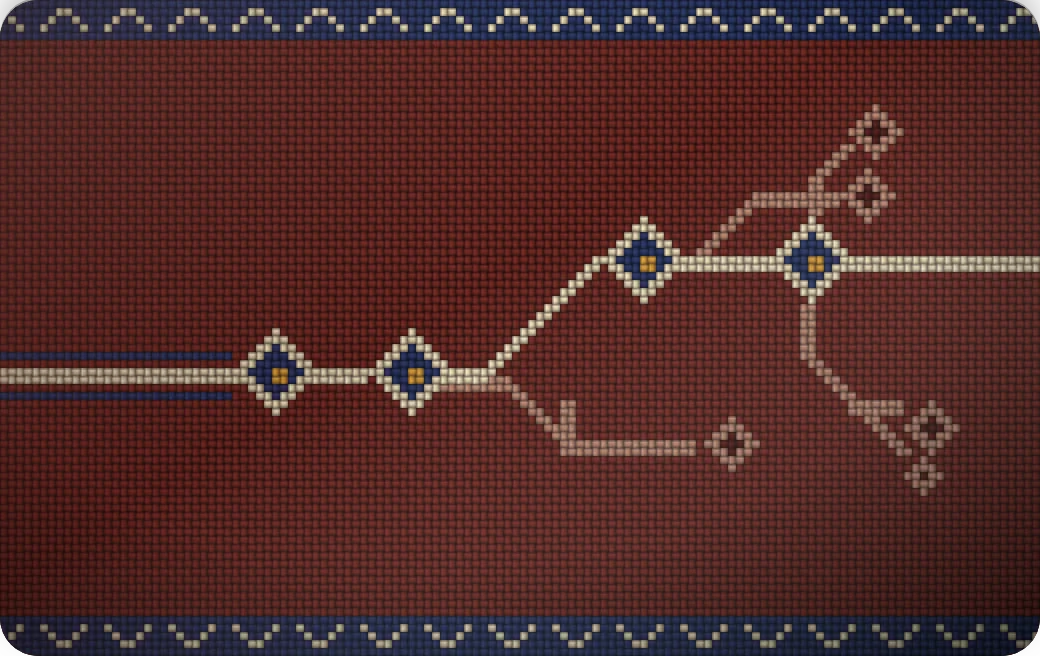
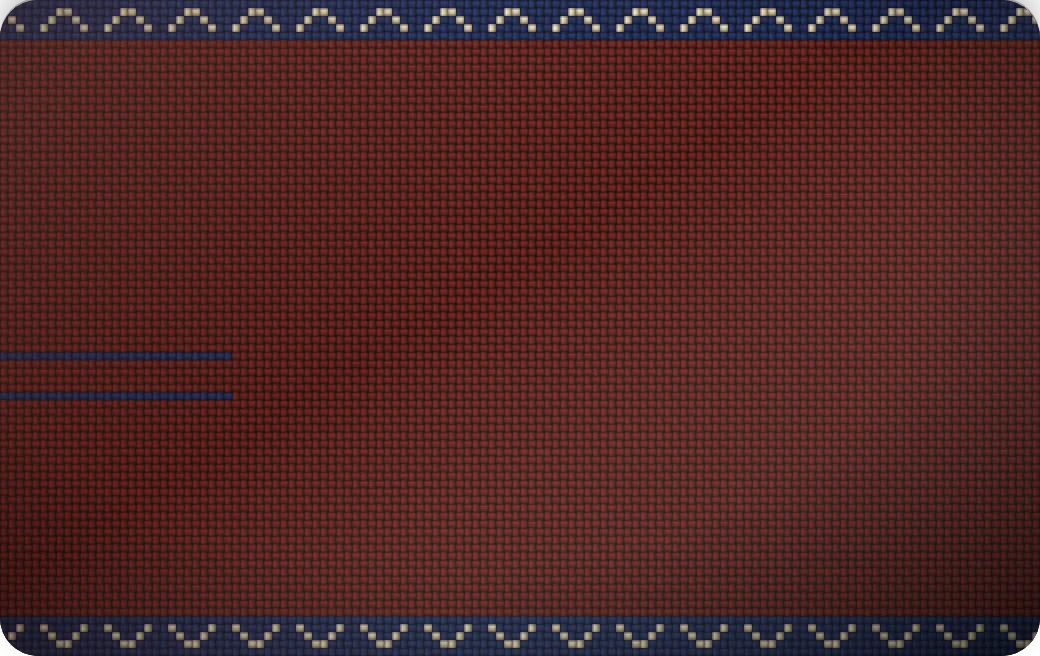
feat(home): Telar teje su hilo puntada a puntada al abrir la tarjeta (NOE-558)

diff --git a/src/home/sections/card-motion/telar.ts b/src/home/sections/card-motion/telar.ts
@@ -1,5 +1,25 @@
-import type { CardMotion } from './index';
+// Telar: the moving parts of the card (the cross-stitch thread weaving itself from the left, and its diamonds).
+// Generated by scripts/cards/gen/telar-split.mjs from the same source as public/home/cards/telar.webp (the red cloth and blue borders).
+// At rest, this overlay on that base is the approved card. Build-up is about 1.3 s.
+import { pop, EASE, type CardMotion } from './index';
 
-// Placeholder until this card's overlay is built.
-const motion: CardMotion = { id: 'telar', svg: '', play: () => [] };
+const svg = "<defs><linearGradient id=\"tw-cream\" x1=\"0\" x2=\"1\"><stop offset=\"0\" stop-color=\"#6f6655\"/><stop offset=\".3\" stop-color=\"#ffedc5\"/><stop offset=\".62\" stop-color=\"#d9c8a7\"/><stop offset=\"1\" stop-color=\"#6a6252\"/></linearGradient><linearGradient id=\"tf-cream\" x1=\"0\" y1=\"0\" x2=\"0\" y2=\"1\"><stop offset=\"0\" stop-color=\"#736a58\"/><stop offset=\".32\" stop-color=\"#f8e4be\"/><stop offset=\".64\" stop-color=\"#d4c4a3\"/><stop offset=\"1\" stop-color=\"#6f6655\"/></linearGradient><linearGradient id=\"tw-dim\" x1=\"0\" x2=\"1\"><stop offset=\"0\" stop-color=\"#583f35\"/><stop offset=\".3\" stop-color=\"#cc927a\"/><stop offset=\".62\" stop-color=\"#ac7b67\"/><stop offset=\"1\" stop-color=\"#543c32\"/></linearGradient><linearGradient id=\"tf-dim\" x1=\"0\" y1=\"0\" x2=\"0\" y2=\"1\"><stop offset=\"0\" stop-color=\"#5c4237\"/><stop offset=\".32\" stop-color=\"#c58d76\"/><stop offset=\".64\" stop-color=\"#a97965\"/><stop offset=\"1\" stop-color=\"#583f35\"/></linearGradient><linearGradient id=\"tw-ochre\" x1=\"0\" x2=\"1\"><stop offset=\"0\" stop-color=\"#65481b\"/><stop offset=\".3\" stop-color=\"#e9a63d\"/><stop offset=\".62\" stop-color=\"#c58c34\"/><stop offset=\"1\" stop-color=\"#604519\"/></linearGradient><linearGradient id=\"tf-ochre\" x1=\"0\" y1=\"0\" x2=\"0\" y2=\"1\"><stop offset=\"0\" stop-color=\"#694a1c\"/><stop offset=\".32\" stop-color=\"#e1a03b\"/><stop offset=\".64\" stop-color=\"#c18933\"/><stop offset=\"1\" stop-color=\"#65481b\"/></linearGradient><linearGradient id=\"tw-deep\" x1=\"0\" x2=\"1\"><stop offset=\"0\" stop-color=\"#250d0c\"/><stop offset=\".3\" stop-color=\"#561e1b\"/><stop offset=\".62\" stop-color=\"#491917\"/><stop offset=\"1\" stop-color=\"#240c0b\"/></linearGradient><linearGradient id=\"tf-deep\" x1=\"0\" y1=\"0\" x2=\"0\" y2=\"1\"><stop offset=\"0\" stop-color=\"#260e0c\"/><stop offset=\".32\" stop-color=\"#531d1a\"/><stop offset=\".64\" stop-color=\"#471916\"/><stop offset=\"1\" stop-color=\"#250d0c\"/></linearGradient><linearGradient id=\"tw-indigo\" x1=\"0\" x2=\"1\"><stop offset=\"0\" stop-color=\"#13192f\"/><stop offset=\".3\" stop-color=\"#2c3a6d\"/><stop offset=\".62\" stop-color=\"#25315c\"/><stop offset=\"1\" stop-color=\"#12182d\"/></linearGradient><linearGradient id=\"tf-indigo\" x1=\"0\" y1=\"0\" x2=\"0\" y2=\"1\"><stop offset=\"0\" stop-color=\"#141a31\"/><stop offset=\".32\" stop-color=\"#2b3869\"/><stop offset=\".64\" stop-color=\"#24305a\"/><stop offset=\"1\" stop-color=\"#13192f\"/></linearGradient><linearGradient id=\"tov\" x1=\"0\" y1=\"0\" x2=\"0\" y2=\"1\"><stop offset=\"0\" stop-color=\"#000\" stop-opacity=\".34\"/><stop offset=\".28\" stop-color=\"#000\" stop-opacity=\"0\"/><stop offset=\".72\" stop-color=\"#000\" stop-opacity=\"0\"/><stop offset=\"1\" stop-color=\"#000\" stop-opacity=\".34\"/></linearGradient><linearGradient id=\"toh\" x1=\"0\" y1=\"0\" x2=\"1\" y2=\"0\"><stop offset=\"0\" stop-color=\"#000\" stop-opacity=\".34\"/><stop offset=\".28\" stop-color=\"#000\" stop-opacity=\"0\"/><stop offset=\".72\" stop-color=\"#000\" stop-opacity=\"0\"/><stop offset=\"1\" stop-color=\"#000\" stop-opacity=\".34\"/></linearGradient><pattern id=\"tp-cream\" width=\"8\" height=\"8\" patternUnits=\"userSpaceOnUse\"><rect width=\"4\" height=\"4\" fill=\"url(#tw-cream)\"/><rect width=\"4\" height=\"4\" fill=\"url(#tov)\"/><rect x=\"4\" width=\"4\" height=\"4\" fill=\"url(#tf-cream)\"/><rect x=\"4\" width=\"4\" height=\"4\" fill=\"url(#toh)\"/><rect y=\"4\" width=\"4\" height=\"4\" fill=\"url(#tf-cream)\"/><rect y=\"4\" width=\"4\" height=\"4\" fill=\"url(#toh)\"/><rect x=\"4\" y=\"4\" width=\"4\" height=\"4\" fill=\"url(#tw-cream)\"/><rect x=\"4\" y=\"4\" width=\"4\" height=\"4\" fill=\"url(#tov)\"/></pattern><pattern id=\"tp-dim\" width=\"8\" height=\"8\" patternUnits=\"userSpaceOnUse\"><rect width=\"4\" height=\"4\" fill=\"url(#tw-dim)\"/><rect width=\"4\" height=\"4\" fill=\"url(#tov)\"/><rect x=\"4\" width=\"4\" height=\"4\" fill=\"url(#tf-dim)\"/><rect x=\"4\" width=\"4\" height=\"4\" fill=\"url(#toh)\"/><rect y=\"4\" width=\"4\" height=\"4\" fill=\"url(#tf-dim)\"/><rect y=\"4\" width=\"4\" height=\"4\" fill=\"url(#toh)\"/><rect x=\"4\" y=\"4\" width=\"4\" height=\"4\" fill=\"url(#tw-dim)\"/><rect x=\"4\" y=\"4\" width=\"4\" height=\"4\" fill=\"url(#tov)\"/></pattern><pattern id=\"tp-ochre\" width=\"8\" height=\"8\" patternUnits=\"userSpaceOnUse\"><rect width=\"4\" height=\"4\" fill=\"url(#tw-ochre)\"/><rect width=\"4\" height=\"4\" fill=\"url(#tov)\"/><rect x=\"4\" width=\"4\" height=\"4\" fill=\"url(#tf-ochre)\"/><rect x=\"4\" width=\"4\" height=\"4\" fill=\"url(#toh)\"/><rect y=\"4\" width=\"4\" height=\"4\" fill=\"url(#tf-ochre)\"/><rect y=\"4\" width=\"4\" height=\"4\" fill=\"url(#toh)\"/><rect x=\"4\" y=\"4\" width=\"4\" height=\"4\" fill=\"url(#tw-ochre)\"/><rect x=\"4\" y=\"4\" width=\"4\" height=\"4\" fill=\"url(#tov)\"/></pattern><pattern id=\"tp-deep\" width=\"8\" height=\"8\" patternUnits=\"userSpaceOnUse\"><rect width=\"4\" height=\"4\" fill=\"url(#tw-deep)\"/><rect width=\"4\" height=\"4\" fill=\"url(#tov)\"/><rect x=\"4\" width=\"4\" height=\"4\" fill=\"url(#tf-deep)\"/><rect x=\"4\" width=\"4\" height=\"4\" fill=\"url(#toh)\"/><rect y=\"4\" width=\"4\" height=\"4\" fill=\"url(#tf-deep)\"/><rect y=\"4\" width=\"4\" height=\"4\" fill=\"url(#toh)\"/><rect x=\"4\" y=\"4\" width=\"4\" height=\"4\" fill=\"url(#tw-deep)\"/><rect x=\"4\" y=\"4\" width=\"4\" height=\"4\" fill=\"url(#tov)\"/></pattern><pattern id=\"tp-indigo\" width=\"8\" height=\"8\" patternUnits=\"userSpaceOnUse\"><rect width=\"4\" height=\"4\" fill=\"url(#tw-indigo)\"/><rect width=\"4\" height=\"4\" fill=\"url(#tov)\"/><rect x=\"4\" width=\"4\" height=\"4\" fill=\"url(#tf-indigo)\"/><rect x=\"4\" width=\"4\" height=\"4\" fill=\"url(#toh)\"/><rect y=\"4\" width=\"4\" height=\"4\" fill=\"url(#tf-indigo)\"/><rect y=\"4\" width=\"4\" height=\"4\" fill=\"url(#toh)\"/><rect x=\"4\" y=\"4\" width=\"4\" height=\"4\" fill=\"url(#tw-indigo)\"/><rect x=\"4\" y=\"4\" width=\"4\" height=\"4\" fill=\"url(#tov)\"/></pattern><linearGradient id=\"tl-calm\" gradientUnits=\"userSpaceOnUse\" gradientTransform=\"matrix(520 0 0 328 0 0)\" x1=\"0\" y1=\"0\" x2=\"1\" y2=\"0\"><stop offset=\"0\" stop-color=\"#2a0c0b\" stop-opacity=\".30\"/><stop offset=\".45\" stop-color=\"#2a0c0b\" stop-opacity=\".0\"/></linearGradient><linearGradient id=\"tl-sheen\" gradientUnits=\"userSpaceOnUse\" gradientTransform=\"matrix(520 0 0 328 0 0)\" x1=\"0\" y1=\"0\" x2=\"1\" y2=\"1\"><stop offset=\"0\" stop-color=\"#fff\" stop-opacity=\".07\"/><stop offset=\".45\" stop-color=\"#fff\" stop-opacity=\"0\"/><stop offset=\"1\" stop-color=\"#000\" stop-opacity=\".28\"/></linearGradient><radialGradient id=\"tl-vig\" gradientUnits=\"userSpaceOnUse\" gradientTransform=\"matrix(520 0 0 328 0 0)\" cx=\".42\" cy=\".4\" r=\".85\"><stop offset=\".55\" stop-color=\"#000\" stop-opacity=\"0\"/><stop offset=\"1\" stop-color=\"#000\" stop-opacity=\".42\"/></radialGradient><g id=\"tl-L\"><rect width=\"520\" height=\"328\" fill=\"url(#tl-calm)\"/><rect width=\"520\" height=\"328\" fill=\"url(#tl-sheen)\"/><rect width=\"520\" height=\"328\" fill=\"url(#tl-vig)\"/></g><path id=\"t0-0\" d=\"M0 184h16v4h-16zM0 188h16v4h-16z\"/><clipPath id=\"tc-0\"><use href=\"#t0-0\"/></clipPath><path id=\"t1-0\" d=\"M16 184h12v4h-12zM16 188h12v4h-12z\"/><clipPath id=\"tc-1\"><use href=\"#t1-0\"/></clipPath><path id=\"t2-0\" d=\"M28 184h16v4h-16zM28 188h16v4h-16z\"/><clipPath id=\"tc-2\"><use href=\"#t2-0\"/></clipPath><path id=\"t3-0\" d=\"M44 184h12v4h-12zM44 188h12v4h-12z\"/><clipPath id=\"tc-3\"><use href=\"#t3-0\"/></clipPath><path id=\"t4-0\" d=\"M56 184h16v4h-16zM56 188h16v4h-16z\"/><clipPath id=\"tc-4\"><use href=\"#t4-0\"/></clipPath><path id=\"t5-0\" d=\"M72 184h12v4h-12zM72 188h12v4h-12z\"/><clipPath id=\"tc-5\"><use href=\"#t5-0\"/></clipPath><path id=\"t6-0\" d=\"M84 184h12v4h-12zM84 188h12v4h-12z\"/><clipPath id=\"tc-6\"><use href=\"#t6-0\"/></clipPath><path id=\"t7-0\" d=\"M96 184h16v4h-16zM96 188h16v4h-16z\"/><clipPath id=\"tc-7\"><use href=\"#t7-0\"/></clipPath><path id=\"t8-0\" d=\"M112 184h4v4h-4zM112 188h4v4h-4z\"/><clipPath id=\"tc-8\"><use href=\"#t8-0\"/></clipPath><path id=\"t9-0\" d=\"M164 184h16v4h-16zM164 188h16v4h-16z\"/><clipPath id=\"tc-9\"><use href=\"#t9-0\"/></clipPath><path id=\"t10-0\" d=\"M180 184h4v4h-4zM180 188h4v4h-4z\"/><clipPath id=\"tc-10\"><use href=\"#t10-0\"/></clipPath><path id=\"t11-0\" d=\"M228 192h4v4h-4z\"/><path id=\"t11-1\" d=\"M232 184h4v4h-4zM232 188h4v4h-4z\"/><clipPath id=\"tc-11\"><use href=\"#t11-0\"/><use href=\"#t11-1\"/></clipPath><path id=\"t12-0\" d=\"M244 188h4v4h-4zM232 192h16v4h-16z\"/><path id=\"t12-1\" d=\"M244 180h4v4h-4zM236 184h12v4h-12zM236 188h8v4h-8z\"/><clipPath id=\"tc-12\"><use href=\"#t12-0\"/><use href=\"#t12-1\"/></clipPath><path id=\"t13-0\" d=\"M248 188h8v4h-8zM248 192h12v4h-12zM256 196h4v4h-4z\"/><path id=\"t13-1\" d=\"M252 172h4v4h-4zM248 176h8v4h-8zM248 180h4v4h-4z\"/><clipPath id=\"tc-13\"><use href=\"#t13-0\"/><use href=\"#t13-1\"/></clipPath><path id=\"t14-0\" d=\"M260 196h4v4h-4zM260 200h8v4h-8zM264 204h8v4h-8z\"/><path id=\"t14-1\" d=\"M260 164h8v4h-8zM256 168h8v4h-8zM256 172h4v4h-4z\"/><clipPath id=\"tc-14\"><use href=\"#t14-0\"/><use href=\"#t14-1\"/></clipPath><path id=\"t15-0\" d=\"M268 208h8v4h-8zM280 208h4v4h-4zM272 212h8v4h-8zM276 216h4v4h-4z\"/><path id=\"t15-1\" d=\"M272 152h4v4h-4zM268 156h8v4h-8zM264 160h8v4h-8z\"/><clipPath id=\"tc-15\"><use href=\"#t15-0\"/><use href=\"#t15-1\"/></clipPath><path id=\"t16-0\" d=\"M280 200h8v4h-8zM280 204h8v4h-8zM284 208h4v4h-4zM280 212h8v4h-8zM280 216h8v4h-8zM280 220h12v4h-12zM280 224h8v4h-8z\"/><path id=\"t16-1\" d=\"M280 144h8v4h-8zM276 148h8v4h-8zM276 152h4v4h-4z\"/><clipPath id=\"tc-16\"><use href=\"#t16-0\"/><use href=\"#t16-1\"/></clipPath><path id=\"t17-0\" d=\"M292 220h16v4h-16zM288 224h16v4h-16z\"/><path id=\"t17-1\" d=\"M292 132h4v4h-4zM288 136h8v4h-8zM284 140h8v4h-8z\"/><clipPath id=\"tc-17\"><use href=\"#t17-0\"/><use href=\"#t17-1\"/></clipPath><path id=\"t18-0\" d=\"M308 220h12v4h-12zM304 224h16v4h-16z\"/><path id=\"t18-1\" d=\"M296 128h4v4h-4zM296 132h4v4h-4z\"/><clipPath id=\"tc-18\"><use href=\"#t18-0\"/><use href=\"#t18-1\"/></clipPath><path id=\"t19-0\" d=\"M320 220h12v4h-12zM320 224h12v4h-12z\"/><clipPath id=\"tc-19\"><use href=\"#t19-0\"/></clipPath><path id=\"t20-0\" d=\"M332 220h16v4h-16zM332 224h16v4h-16z\"/><clipPath id=\"tc-20\"><use href=\"#t20-0\"/></clipPath><path id=\"t21-0\" d=\"M348 132h4v4h-4z\"/><clipPath id=\"tc-21\"><use href=\"#t21-0\"/></clipPath><path id=\"t22-0\" d=\"M356 116h4v4h-4zM352 120h8v4h-8zM348 124h8v4h-8z\"/><path id=\"t22-1\" d=\"M348 128h16v4h-16zM352 132h12v4h-12z\"/><clipPath id=\"tc-22\"><use href=\"#t22-0\"/><use href=\"#t22-1\"/></clipPath><path id=\"t23-0\" d=\"M364 108h8v4h-8zM360 112h8v4h-8zM360 116h4v4h-4z\"/><path id=\"t23-1\" d=\"M364 128h12v4h-12zM364 132h16v4h-16z\"/><clipPath id=\"tc-23\"><use href=\"#t23-0\"/><use href=\"#t23-1\"/></clipPath><path id=\"t24-0\" d=\"M376 96h4v4h-4zM372 100h8v4h-8zM368 104h8v4h-8z\"/><path id=\"t24-1\" d=\"M376 128h8v4h-8zM380 132h4v4h-4z\"/><clipPath id=\"tc-24\"><use href=\"#t24-0\"/><use href=\"#t24-1\"/></clipPath><path id=\"t25-0\" d=\"M380 96h12v4h-12zM380 100h16v4h-16z\"/><clipPath id=\"tc-25\"><use href=\"#t25-0\"/></clipPath><path id=\"t26-0\" d=\"M404 92h4v4h-4zM392 96h16v4h-16zM396 100h12v4h-12zM404 104h4v4h-4zM400 152h4v4h-4zM400 156h4v4h-4z\"/><clipPath id=\"tc-26\"><use href=\"#t26-0\"/></clipPath><path id=\"t27-0\" d=\"M412 80h4v4h-4zM408 84h8v4h-8zM404 88h8v4h-8zM408 92h4v4h-4zM408 96h12v4h-12zM408 100h12v4h-12zM408 104h4v4h-4zM404 156h4v4h-4zM400 160h8v4h-8zM400 164h8v4h-8zM400 168h8v4h-8z\"/><clipPath id=\"tc-27\"><use href=\"#t27-0\"/></clipPath><path id=\"t28-0\" d=\"M420 72h4v4h-4zM416 76h8v4h-8zM416 80h4v4h-4zM400 172h8v4h-8zM400 176h8v4h-8zM404 180h8v4h-8z\"/><path id=\"t28-1\" d=\"M432 128h12v4h-12zM432 132h16v4h-16z\"/><clipPath id=\"tc-28\"><use href=\"#t28-0\"/><use href=\"#t28-1\"/></clipPath><path id=\"t29-0\" d=\"M424 72h4v4h-4zM408 184h8v4h-8zM412 188h8v4h-8zM416 192h4v4h-4z\"/><path id=\"t29-1\" d=\"M444 128h16v4h-16zM448 132h12v4h-12z\"/><clipPath id=\"tc-29\"><use href=\"#t29-0\"/><use href=\"#t29-1\"/></clipPath><path id=\"t30-0\" d=\"M420 192h4v4h-4zM420 196h8v4h-8zM424 200h8v4h-8zM424 204h4v4h-4z\"/><path id=\"t30-1\" d=\"M460 128h12v4h-12zM460 132h12v4h-12z\"/><clipPath id=\"tc-30\"><use href=\"#t30-0\"/><use href=\"#t30-1\"/></clipPath><path id=\"t31-0\" d=\"M432 200h12v4h-12zM428 204h16v4h-16zM432 208h8v4h-8zM436 212h4v4h-4z\"/><path id=\"t31-1\" d=\"M472 128h16v4h-16zM472 132h16v4h-16z\"/><clipPath id=\"tc-31\"><use href=\"#t31-0\"/><use href=\"#t31-1\"/></clipPath><path id=\"t32-0\" d=\"M444 200h8v4h-8zM444 204h8v4h-8zM440 212h4v4h-4zM440 216h8v4h-8zM444 220h8v4h-8z\"/><path id=\"t32-1\" d=\"M488 128h12v4h-12zM488 132h12v4h-12z\"/><clipPath id=\"tc-32\"><use href=\"#t32-0\"/><use href=\"#t32-1\"/></clipPath><path id=\"t33-0\" d=\"M448 224h8v4h-8z\"/><path id=\"t33-1\" d=\"M500 128h12v4h-12zM500 132h16v4h-16z\"/><clipPath id=\"tc-33\"><use href=\"#t33-0\"/><use href=\"#t33-1\"/></clipPath><path id=\"t34-0\" d=\"M512 128h8v4h-8zM516 132h4v4h-4z\"/><clipPath id=\"tc-34\"><use href=\"#t34-0\"/></clipPath><path id=\"t35-0\" d=\"M436 52h4v4h-4zM432 56h12v4h-12zM428 60h8v4h-8zM440 60h8v4h-8zM424 64h8v4h-8zM444 64h8v4h-8zM428 68h8v4h-8zM440 68h8v4h-8zM432 72h12v4h-12zM436 76h4v4h-4z\"/><path id=\"t35-1\" d=\"M436 60h4v4h-4zM432 64h12v4h-12zM436 68h4v4h-4z\"/><clipPath id=\"tc-35\"><use href=\"#t35-0\"/><use href=\"#t35-1\"/></clipPath><path id=\"t36-0\" d=\"M364 208h4v4h-4zM360 212h12v4h-12zM356 216h8v4h-8zM368 216h8v4h-8zM352 220h8v4h-8zM372 220h8v4h-8zM356 224h8v4h-8zM368 224h8v4h-8zM360 228h12v4h-12zM364 232h4v4h-4z\"/><path id=\"t36-1\" d=\"M364 216h4v4h-4zM360 220h12v4h-12zM364 224h4v4h-4z\"/><clipPath id=\"tc-36\"><use href=\"#t36-0\"/><use href=\"#t36-1\"/></clipPath><path id=\"t37-0\" d=\"M432 84h4v4h-4zM428 88h12v4h-12zM424 92h8v4h-8zM436 92h8v4h-8zM420 96h8v4h-8zM440 96h8v4h-8zM424 100h8v4h-8zM436 100h8v4h-8zM428 104h12v4h-12zM432 108h4v4h-4z\"/><path id=\"t37-1\" d=\"M432 92h4v4h-4zM428 96h12v4h-12zM432 100h4v4h-4z\"/><clipPath id=\"tc-37\"><use href=\"#t37-0\"/><use href=\"#t37-1\"/></clipPath><path id=\"t38-0\" d=\"M464 200h4v4h-4zM460 204h12v4h-12zM456 208h8v4h-8zM468 208h8v4h-8zM452 212h8v4h-8zM472 212h8v4h-8zM456 216h8v4h-8zM468 216h8v4h-8zM460 220h12v4h-12zM464 224h4v4h-4z\"/><path id=\"t38-1\" d=\"M464 208h4v4h-4zM460 212h12v4h-12zM464 216h4v4h-4z\"/><clipPath id=\"tc-38\"><use href=\"#t38-0\"/><use href=\"#t38-1\"/></clipPath><path id=\"t39-0\" d=\"M460 228h4v4h-4zM456 232h12v4h-12zM452 236h8v4h-8zM464 236h8v4h-8zM456 240h12v4h-12zM460 244h4v4h-4z\"/><path id=\"t39-1\" d=\"M460 236h4v4h-4z\"/><clipPath id=\"tc-39\"><use href=\"#t39-0\"/><use href=\"#t39-1\"/></clipPath><path id=\"t40-0\" d=\"M136 172h4v4h-4zM132 176h12v4h-12zM128 180h20v4h-20zM124 184h12v4h-12zM144 184h8v4h-8zM128 188h8v4h-8zM144 188h4v4h-4zM132 192h12v4h-12zM136 196h4v4h-4z\"/><path id=\"t40-1\" d=\"M136 164h4v4h-4zM132 168h12v4h-12zM128 172h8v4h-8zM140 172h8v4h-8zM124 176h8v4h-8zM144 176h8v4h-8zM120 180h8v4h-8zM148 180h8v4h-8zM116 184h8v4h-8zM152 184h12v4h-12zM116 188h12v4h-12zM148 188h16v4h-16zM124 192h8v4h-8zM144 192h8v4h-8zM128 196h8v4h-8zM140 196h8v4h-8zM132 200h12v4h-12zM136 204h4v4h-4z\"/><path id=\"t40-2\" d=\"M136 184h8v4h-8zM136 188h8v4h-8z\"/><clipPath id=\"tc-40\"><use href=\"#t40-0\"/><use href=\"#t40-1\"/><use href=\"#t40-2\"/></clipPath><path id=\"t41-0\" d=\"M220 192h8v4h-8z\"/><path id=\"t41-1\" d=\"M204 172h4v4h-4zM200 176h12v4h-12zM196 180h20v4h-20zM192 184h12v4h-12zM212 184h8v4h-8zM196 188h8v4h-8zM212 188h4v4h-4zM200 192h12v4h-12zM204 196h4v4h-4z\"/><path id=\"t41-2\" d=\"M204 164h4v4h-4zM200 168h12v4h-12zM196 172h8v4h-8zM208 172h8v4h-8zM192 176h8v4h-8zM212 176h8v4h-8zM188 180h8v4h-8zM216 180h8v4h-8zM184 184h8v4h-8zM220 184h12v4h-12zM188 188h8v4h-8zM216 188h16v4h-16zM192 192h8v4h-8zM212 192h8v4h-8zM196 196h8v4h-8zM208 196h8v4h-8zM200 200h12v4h-12zM204 204h4v4h-4z\"/><path id=\"t41-3\" d=\"M204 184h8v4h-8zM204 188h8v4h-8z\"/><clipPath id=\"tc-41\"><use href=\"#t41-0\"/><use href=\"#t41-1\"/><use href=\"#t41-2\"/><use href=\"#t41-3\"/></clipPath><path id=\"t42-0\" d=\"M320 116h4v4h-4zM316 120h12v4h-12zM312 124h20v4h-20zM308 128h12v4h-12zM328 128h8v4h-8zM312 132h8v4h-8zM328 132h4v4h-4zM316 136h12v4h-12zM320 140h4v4h-4z\"/><path id=\"t42-1\" d=\"M320 108h4v4h-4zM316 112h12v4h-12zM312 116h8v4h-8zM324 116h8v4h-8zM308 120h8v4h-8zM328 120h8v4h-8zM304 124h8v4h-8zM332 124h8v4h-8zM300 128h8v4h-8zM336 128h12v4h-12zM304 132h8v4h-8zM332 132h16v4h-16zM308 136h8v4h-8zM328 136h8v4h-8zM312 140h8v4h-8zM324 140h8v4h-8zM316 144h12v4h-12zM320 148h4v4h-4z\"/><path id=\"t42-2\" d=\"M320 128h8v4h-8zM320 132h8v4h-8z\"/><clipPath id=\"tc-42\"><use href=\"#t42-0\"/><use href=\"#t42-1\"/><use href=\"#t42-2\"/></clipPath><path id=\"t43-0\" d=\"M404 152h4v4h-4z\"/><path id=\"t43-1\" d=\"M404 116h4v4h-4zM400 120h12v4h-12zM396 124h20v4h-20zM392 128h12v4h-12zM412 128h8v4h-8zM396 132h8v4h-8zM412 132h4v4h-4zM400 136h12v4h-12zM404 140h4v4h-4z\"/><path id=\"t43-2\" d=\"M404 108h4v4h-4zM400 112h12v4h-12zM396 116h8v4h-8zM408 116h8v4h-8zM392 120h8v4h-8zM412 120h8v4h-8zM388 124h8v4h-8zM416 124h8v4h-8zM384 128h8v4h-8zM420 128h12v4h-12zM384 132h12v4h-12zM416 132h16v4h-16zM392 136h8v4h-8zM412 136h8v4h-8zM396 140h8v4h-8zM408 140h8v4h-8zM400 144h12v4h-12zM404 148h4v4h-4z\"/><path id=\"t43-3\" d=\"M404 128h8v4h-8zM404 132h8v4h-8z\"/><clipPath id=\"tc-43\"><use href=\"#t43-0\"/><use href=\"#t43-1\"/><use href=\"#t43-2\"/><use href=\"#t43-3\"/></clipPath></defs><g data-k=\"0\"><use href=\"#t0-0\" fill=\"url(#tp-cream)\"/><use href=\"#tl-L\" clip-path=\"url(#tc-0)\"/></g><g data-k=\"1\"><use href=\"#t1-0\" fill=\"url(#tp-cream)\"/><use href=\"#tl-L\" clip-path=\"url(#tc-1)\"/></g><g data-k=\"2\"><use href=\"#t2-0\" fill=\"url(#tp-cream)\"/><use href=\"#tl-L\" clip-path=\"url(#tc-2)\"/></g><g data-k=\"3\"><use href=\"#t3-0\" fill=\"url(#tp-cream)\"/><use href=\"#tl-L\" clip-path=\"url(#tc-3)\"/></g><g data-k=\"4\"><use href=\"#t4-0\" fill=\"url(#tp-cream)\"/><use href=\"#tl-L\" clip-path=\"url(#tc-4)\"/></g><g data-k=\"5\"><use href=\"#t5-0\" fill=\"url(#tp-cream)\"/><use href=\"#tl-L\" clip-path=\"url(#tc-5)\"/></g><g data-k=\"6\"><use href=\"#t6-0\" fill=\"url(#tp-cream)\"/><use href=\"#tl-L\" clip-path=\"url(#tc-6)\"/></g><g data-k=\"7\"><use href=\"#t7-0\" fill=\"url(#tp-cream)\"/><use href=\"#tl-L\" clip-path=\"url(#tc-7)\"/></g><g data-k=\"8\"><use href=\"#t8-0\" fill=\"url(#tp-cream)\"/><use href=\"#tl-L\" clip-path=\"url(#tc-8)\"/></g><g data-k=\"12\"><use href=\"#t9-0\" fill=\"url(#tp-cream)\"/><use href=\"#tl-L\" clip-path=\"url(#tc-9)\"/></g><g data-k=\"13\"><use href=\"#t10-0\" fill=\"url(#tp-cream)\"/><use href=\"#tl-L\" clip-path=\"url(#tc-10)\"/></g><g data-k=\"16\"><use href=\"#t11-0\" fill=\"url(#tp-dim)\"/><use href=\"#t11-1\" fill=\"url(#tp-cream)\"/><use href=\"#tl-L\" clip-path=\"url(#tc-11)\"/></g><g data-k=\"17\"><use href=\"#t12-0\" fill=\"url(#tp-dim)\"/><use href=\"#t12-1\" fill=\"url(#tp-cream)\"/><use href=\"#tl-L\" clip-path=\"url(#tc-12)\"/></g><g data-k=\"18\"><use href=\"#t13-0\" fill=\"url(#tp-dim)\"/><use href=\"#t13-1\" fill=\"url(#tp-cream)\"/><use href=\"#tl-L\" clip-path=\"url(#tc-13)\"/></g><g data-k=\"19\"><use href=\"#t14-0\" fill=\"url(#tp-dim)\"/><use href=\"#t14-1\" fill=\"url(#tp-cream)\"/><use href=\"#tl-L\" clip-path=\"url(#tc-14)\"/></g><g data-k=\"20\"><use href=\"#t15-0\" fill=\"url(#tp-dim)\"/><use href=\"#t15-1\" fill=\"url(#tp-cream)\"/><use href=\"#tl-L\" clip-path=\"url(#tc-15)\"/></g><g data-k=\"21\"><use href=\"#t16-0\" fill=\"url(#tp-dim)\"/><use href=\"#t16-1\" fill=\"url(#tp-cream)\"/><use href=\"#tl-L\" clip-path=\"url(#tc-16)\"/></g><g data-k=\"22\"><use href=\"#t17-0\" fill=\"url(#tp-dim)\"/><use href=\"#t17-1\" fill=\"url(#tp-cream)\"/><use href=\"#tl-L\" clip-path=\"url(#tc-17)\"/></g><g data-k=\"23\"><use href=\"#t18-0\" fill=\"url(#tp-dim)\"/><use href=\"#t18-1\" fill=\"url(#tp-cream)\"/><use href=\"#tl-L\" clip-path=\"url(#tc-18)\"/></g><g data-k=\"24\"><use href=\"#t19-0\" fill=\"url(#tp-dim)\"/><use href=\"#tl-L\" clip-path=\"url(#tc-19)\"/></g><g data-k=\"25\"><use href=\"#t20-0\" fill=\"url(#tp-dim)\"/><use href=\"#tl-L\" clip-path=\"url(#tc-20)\"/></g><g data-k=\"26\"><use href=\"#t21-0\" fill=\"url(#tp-cream)\"/><use href=\"#tl-L\" clip-path=\"url(#tc-21)\"/></g><g data-k=\"27\"><use href=\"#t22-0\" fill=\"url(#tp-dim)\"/><use href=\"#t22-1\" fill=\"url(#tp-cream)\"/><use href=\"#tl-L\" clip-path=\"url(#tc-22)\"/></g><g data-k=\"28\"><use href=\"#t23-0\" fill=\"url(#tp-dim)\"/><use href=\"#t23-1\" fill=\"url(#tp-cream)\"/><use href=\"#tl-L\" clip-path=\"url(#tc-23)\"/></g><g data-k=\"29\"><use href=\"#t24-0\" fill=\"url(#tp-dim)\"/><use href=\"#t24-1\" fill=\"url(#tp-cream)\"/><use href=\"#tl-L\" clip-path=\"url(#tc-24)\"/></g><g data-k=\"30\"><use href=\"#t25-0\" fill=\"url(#tp-dim)\"/><use href=\"#tl-L\" clip-path=\"url(#tc-25)\"/></g><g data-k=\"31\"><use href=\"#t26-0\" fill=\"url(#tp-dim)\"/><use href=\"#tl-L\" clip-path=\"url(#tc-26)\"/></g><g data-k=\"32\"><use href=\"#t27-0\" fill=\"url(#tp-dim)\"/><use href=\"#tl-L\" clip-path=\"url(#tc-27)\"/></g><g data-k=\"33\"><use href=\"#t28-0\" fill=\"url(#tp-dim)\"/><use href=\"#t28-1\" fill=\"url(#tp-cream)\"/><use href=\"#tl-L\" clip-path=\"url(#tc-28)\"/></g><g data-k=\"34\"><use href=\"#t29-0\" fill=\"url(#tp-dim)\"/><use href=\"#t29-1\" fill=\"url(#tp-cream)\"/><use href=\"#tl-L\" clip-path=\"url(#tc-29)\"/></g><g data-k=\"35\"><use href=\"#t30-0\" fill=\"url(#tp-dim)\"/><use href=\"#t30-1\" fill=\"url(#tp-cream)\"/><use href=\"#tl-L\" clip-path=\"url(#tc-30)\"/></g><g data-k=\"36\"><use href=\"#t31-0\" fill=\"url(#tp-dim)\"/><use href=\"#t31-1\" fill=\"url(#tp-cream)\"/><use href=\"#tl-L\" clip-path=\"url(#tc-31)\"/></g><g data-k=\"37\"><use href=\"#t32-0\" fill=\"url(#tp-dim)\"/><use href=\"#t32-1\" fill=\"url(#tp-cream)\"/><use href=\"#tl-L\" clip-path=\"url(#tc-32)\"/></g><g data-k=\"38\"><use href=\"#t33-0\" fill=\"url(#tp-dim)\"/><use href=\"#t33-1\" fill=\"url(#tp-cream)\"/><use href=\"#tl-L\" clip-path=\"url(#tc-33)\"/></g><g data-k=\"39\"><use href=\"#t34-0\" fill=\"url(#tp-cream)\"/><use href=\"#tl-L\" clip-path=\"url(#tc-34)\"/></g><g data-d=\"860.8\" data-o=\"438px 66px\"><use href=\"#t35-0\" fill=\"url(#tp-dim)\"/><use href=\"#t35-1\" fill=\"url(#tp-deep)\"/><use href=\"#tl-L\" clip-path=\"url(#tc-35)\"/></g><g data-d=\"662\" data-o=\"366px 222px\"><use href=\"#t36-0\" fill=\"url(#tp-dim)\"/><use href=\"#t36-1\" fill=\"url(#tp-deep)\"/><use href=\"#tl-L\" clip-path=\"url(#tc-36)\"/></g><g data-d=\"826.3\" data-o=\"434px 98px\"><use href=\"#t37-0\" fill=\"url(#tp-dim)\"/><use href=\"#t37-1\" fill=\"url(#tp-deep)\"/><use href=\"#tl-L\" clip-path=\"url(#tc-37)\"/></g><g data-d=\"948.2\" data-o=\"466px 214px\"><use href=\"#t38-0\" fill=\"url(#tp-dim)\"/><use href=\"#t38-1\" fill=\"url(#tp-deep)\"/><use href=\"#tl-L\" clip-path=\"url(#tc-38)\"/></g><g data-d=\"976.3\" data-o=\"462px 238px\"><use href=\"#t39-0\" fill=\"url(#tp-dim)\"/><use href=\"#t39-1\" fill=\"url(#tp-deep)\"/><use href=\"#tl-L\" clip-path=\"url(#tc-39)\"/></g><g data-d=\"212.3\" data-o=\"140px 188px\"><use href=\"#t40-0\" fill=\"url(#tp-indigo)\"/><use href=\"#t40-1\" fill=\"url(#tp-cream)\"/><use href=\"#t40-2\" fill=\"url(#tp-ochre)\"/><use href=\"#tl-L\" clip-path=\"url(#tc-40)\"/></g><g data-d=\"336.8\" data-o=\"208px 188px\"><use href=\"#t41-0\" fill=\"url(#tp-dim)\"/><use href=\"#t41-1\" fill=\"url(#tp-indigo)\"/><use href=\"#t41-2\" fill=\"url(#tp-cream)\"/><use href=\"#t41-3\" fill=\"url(#tp-ochre)\"/><use href=\"#tl-L\" clip-path=\"url(#tc-41)\"/></g><g data-d=\"588.9\" data-o=\"324px 132px\"><use href=\"#t42-0\" fill=\"url(#tp-indigo)\"/><use href=\"#t42-1\" fill=\"url(#tp-cream)\"/><use href=\"#t42-2\" fill=\"url(#tp-ochre)\"/><use href=\"#tl-L\" clip-path=\"url(#tc-42)\"/></g><g data-d=\"739.6\" data-o=\"408px 132px\"><use href=\"#t43-0\" fill=\"url(#tp-dim)\"/><use href=\"#t43-1\" fill=\"url(#tp-indigo)\"/><use href=\"#t43-2\" fill=\"url(#tp-cream)\"/><use href=\"#t43-3\" fill=\"url(#tp-ochre)\"/><use href=\"#tl-L\" clip-path=\"url(#tc-43)\"/></g>";
+
+const motion: CardMotion = {
+  id: 'telar',
+  svg,
+  play(root, delay) {
+    const out: Animation[] = [];
+    // The thread: 40 bands of stitches, each one fades in as the thread reaches it (distance along the thread from the left edge).
+    root.querySelectorAll<SVGGElement>('[data-k]').forEach((g) => {
+      out.push(g.animate([{ opacity: 0 }, { opacity: 1 }], { duration: 170, delay: delay + Number(g.dataset.k) * 25, easing: EASE, fill: 'backwards' }));
+    });
+    // Each diamond lights up as the thread arrives at it.
+    root.querySelectorAll<SVGGElement>('[data-d]').forEach((g) => {
+      out.push(pop(g, delay + Number(g.dataset.d) + 40, 240, g.dataset.o));
+    });
+    return out;
+  },
+};
+
 export default motion;
